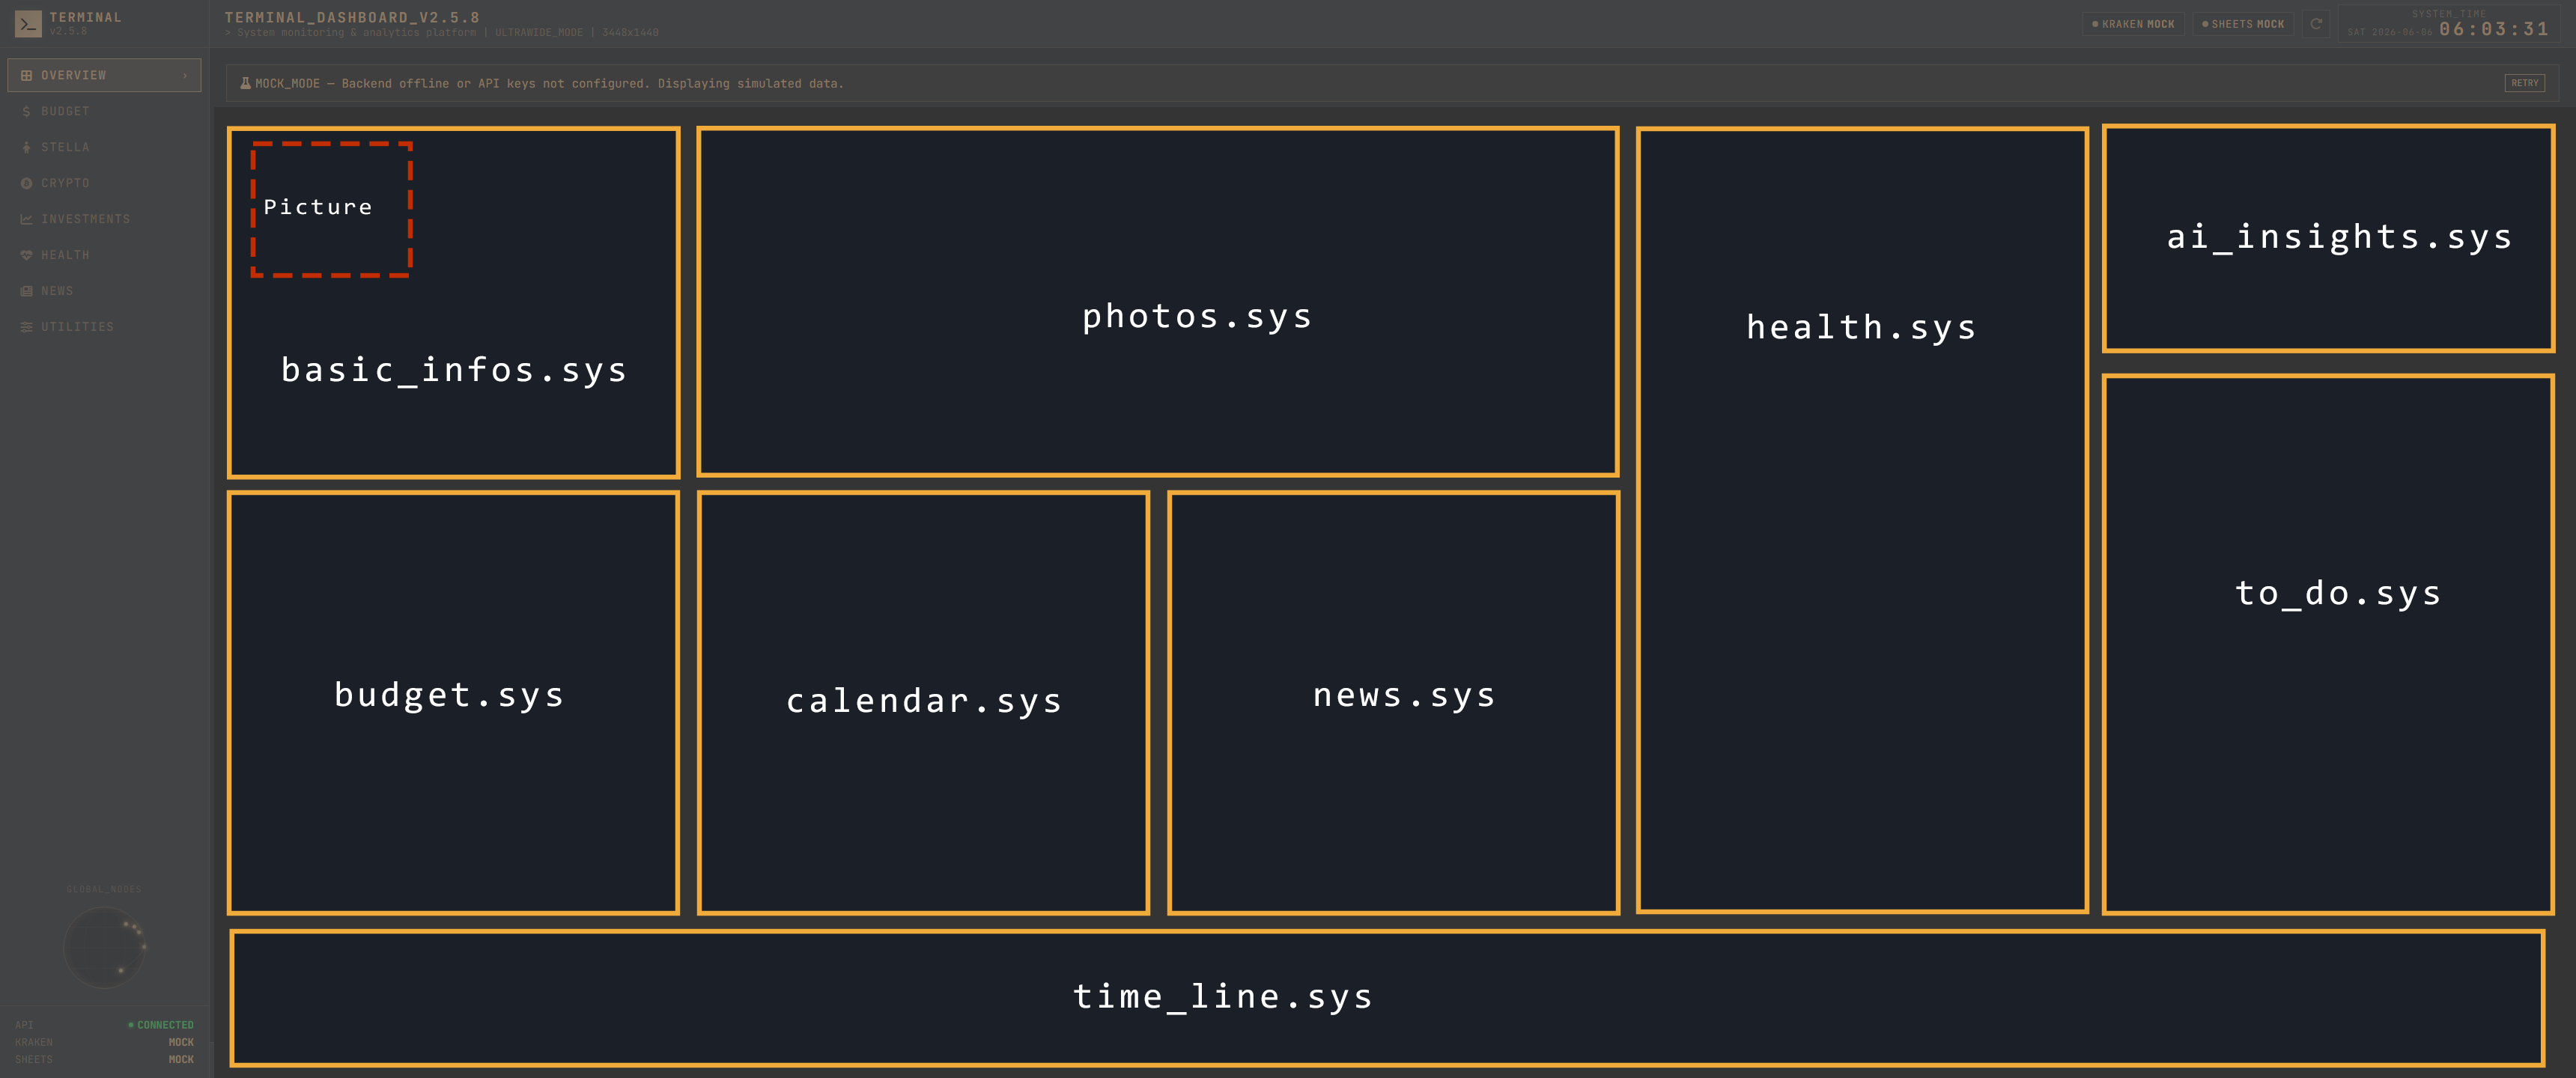
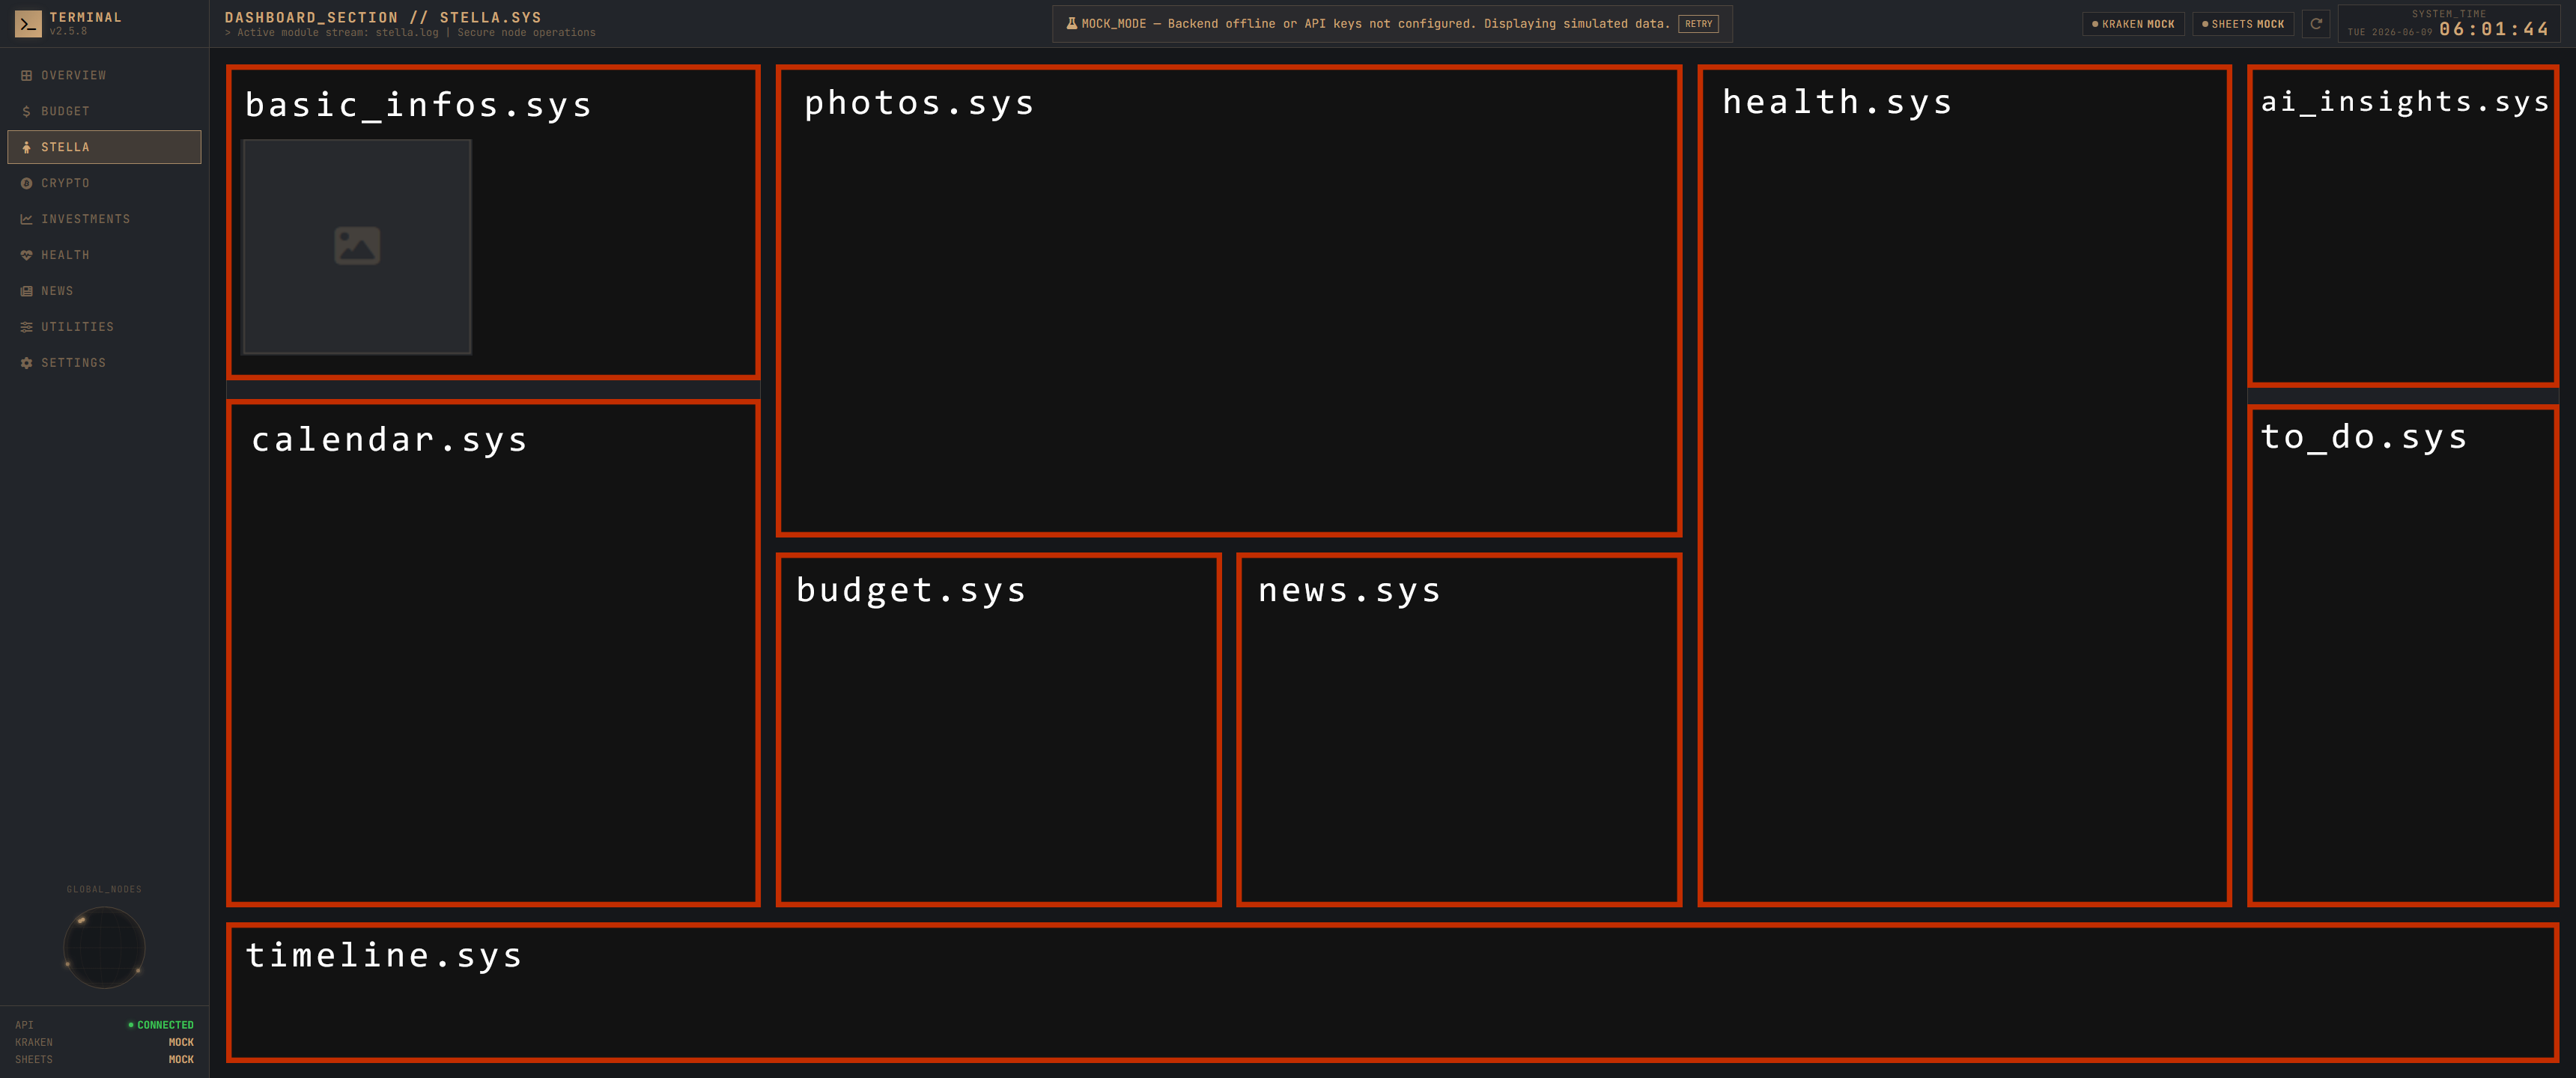
Add live Stella timeline with file persistence, milestone delete, photo hover thumbs, and layout skill improvements

diff --git a/frontend/app.js b/frontend/app.js
@@ -19,15 +19,8 @@ let securityScanRun = false;
 
 // ================= MOCKUP DATASETS (ACCORDING TO DESIGN SPECIFICATIONS) =================
 
-// Stella timeline milestones
-const mockStellaTimeline = [
-    { date: '2023-02-14', title: 'Born',        label: 'Feb 14 · 3.4 kg',          description: 'Stella arrived on Valentine\'s Day, weighing 3.4 kg.',  photo: null },
-    { date: '2024-04',    title: 'First steps', label: 'Apr · 13 months',           description: 'Took her first independent steps at 13 months.',         photo: null },
-    { date: '2024-09',    title: 'First words', label: 'Sep · "mama" / "dada"',     description: 'Started saying "mama" and "dada" clearly.',             photo: null },
-    { date: '2026-01',    title: 'Daycare',     label: 'Started Jan · loves it',    description: 'Started daycare in January 2026. Loves it.',             photo: null, isNow: true },
-    { date: '2027',       title: 'Swim lessons',label: 'Planned · summer term',     description: 'Planned summer swim lessons.',                           photo: null },
-    { date: '2029-09',    title: 'Kindergarten',label: 'Sep · starts school',       description: 'Starts kindergarten in September 2029.',                 photo: null, isGoal: true },
-];
+// Stella timeline milestones — loaded from Stella_data/timeline.json via API
+let stellaTimeline = [];
 
 // Category breakdowns for budget.sys
 const mockBudgetCategories = [
@@ -691,9 +684,32 @@ function initColorPicker() {
 
 // ================= VIEW: STELLA =================
 function renderStellaScreen() {
-    _renderStellaTimeline();
+    _loadStellaTimeline();
     _renderStellaCalendar();
     _initStellaTodos();
+}
+
+async function _loadStellaTimeline() {
+    try {
+        const res = await fetch('http://127.0.0.1:8000/api/stella/timeline');
+        const data = await res.json();
+        if (Array.isArray(data)) stellaTimeline = data;
+    } catch {
+        // backend unavailable — stellaTimeline stays as whatever was last loaded
+    }
+    _renderStellaTimeline();
+}
+
+async function _saveStellaTimeline() {
+    try {
+        await fetch('http://127.0.0.1:8000/api/stella/timeline', {
+            method: 'POST',
+            headers: { 'Content-Type': 'application/json' },
+            body: JSON.stringify({ milestones: stellaTimeline }),
+        });
+    } catch {
+        // silently fail — in-memory state is still correct
+    }
 }
 
 function _initStellaTodos() {
@@ -723,13 +739,15 @@ function _initStellaTodos() {
 function _renderStellaTimeline() {
     const track = document.getElementById('stella-timeline-track');
     if (!track) return;
-    track.innerHTML = mockStellaTimeline.map((m, i) => {
+    track.innerHTML = stellaTimeline.map((m, i) => {
         const year = m.date.slice(0, 4);
-        const isLast = i === mockStellaTimeline.length - 1;
+        const isLast = i === stellaTimeline.length - 1;
         const photo = m.photo ? `<img class="stella-tl-photo" src="${m.photo}" alt="${m.title}">` : '';
+        const thumbTip = m.photo ? `<img class="stella-tl-thumb-tip" src="${m.photo}" alt="">` : '';
         return `
-            <div class="ret-tl-col${m.isNow ? ' now' : ''}${m.isGoal ? ' goal' : ''}" style="cursor:pointer" onclick="openStellaViewMilestone(${i})">
+            <div class="ret-tl-col${m.isNow ? ' now' : ''}${m.isGoal ? ' goal' : ''}${m.photo ? ' has-thumb' : ''}" style="cursor:pointer" onclick="openStellaViewMilestone(${i})">
                 ${photo}
+                ${thumbTip}
                 <div class="ret-tl-content">
                     <div class="ret-tl-year">${m.isNow ? '<span class="ret-tl-now-badge">NOW</span>' : ''}${year}</div>
                     <div class="ret-tl-val">${m.title}</div>
@@ -753,12 +771,13 @@ function openStellaNewMilestone() {
     document.getElementById('stella-ms-date').value = '';
     document.getElementById('stella-ms-desc').value = '';
     _stellaPhotoClear();
+    document.getElementById('stella-ms-delete-btn').style.display = 'none';
     popup.dataset.mode = 'create';
     popup.classList.add('visible');
 }
 
 function openStellaViewMilestone(index) {
-    const m = mockStellaTimeline[index];
+    const m = stellaTimeline[index];
     if (!m) return;
     const popup = document.getElementById('stella-event-popup');
     document.getElementById('stella-popup-title-bar').innerHTML = `<i class="fa-solid fa-timeline"></i> ${m.title}`;
@@ -772,6 +791,7 @@ function openStellaViewMilestone(index) {
         preview.style.display = 'block';
         document.getElementById('stella-photo-drop').dataset.photo = m.photo;
     }
+    document.getElementById('stella-ms-delete-btn').style.display = '';
     popup.dataset.mode = 'view';
     popup.dataset.editIndex = index;
     popup.classList.add('visible');
@@ -806,12 +826,23 @@ function saveStellaNewMilestone() {
         label = parts[2] ? `${mName} ${parseInt(parts[2], 10)}` : mName;
     }
 
-    mockStellaTimeline.push({ date, title, label, description: desc, photo });
-    // Sort by date string (lexicographic, works for YYYY-MM-DD and YYYY-MM)
-    mockStellaTimeline.sort((a, b) => a.date.localeCompare(b.date));
+    document.getElementById('stella-event-popup').classList.remove('visible');
+
+    stellaTimeline.push({ date, title, label, description: desc, photo });
+    stellaTimeline.sort((a, b) => a.date.localeCompare(b.date));
 
     _renderStellaTimeline();
-    document.getElementById('stella-event-popup').classList.remove('visible');
+    _saveStellaTimeline();
+}
+
+function deleteStellaMilestone() {
+    const popup = document.getElementById('stella-event-popup');
+    const idx = parseInt(popup.dataset.editIndex, 10);
+    if (isNaN(idx) || idx < 0 || idx >= stellaTimeline.length) return;
+    popup.classList.remove('visible');
+    stellaTimeline.splice(idx, 1);
+    _renderStellaTimeline();
+    _saveStellaTimeline();
 }
 
 function stellaPhotoDragOver(e) {

diff --git a/frontend/style.css b/frontend/style.css
@@ -1802,7 +1802,7 @@ nav.sidebar-nav {
     gap: var(--grid-gap);
     grid-template-areas:
         "basicinfo photos   photos   health  aiinsights"
-        "budget    calendar news     health  todo"
+        "calendar  budget   news     health  todo"
         "timeline  timeline timeline timeline timeline";
     align-items: stretch;
 }
@@ -1817,6 +1817,34 @@ nav.sidebar-nav {
     flex: 1;
     min-height: 0;
     overflow-y: auto;
+}
+
+/* ── large top news panel ── */
+.stella-bignews-list {
+    display: flex;
+    flex-direction: column;
+    gap: 8px;
+    flex: 1;
+    min-height: 0;
+    overflow-y: auto;
+    padding: 6px 10px 10px;
+}
+.stella-bignews-featured {
+    border-bottom: 1px solid var(--border);
+    padding-bottom: 8px;
+}
+.stella-bignews-featured .news-headline {
+    font-size: 14px;
+    color: var(--slate);
+}
+.stella-bignews-grid {
+    display: grid;
+    grid-template-columns: 1fr 1fr;
+    gap: 8px;
+}
+.stella-bignews-grid .news-item {
+    border: none;
+    padding: 0;
 }
 
 #panel-stella-timeline .ret-tl-scroll {
@@ -1846,6 +1874,24 @@ nav.sidebar-nav {
     margin-bottom: 4px;
     align-self: center;
 }
+
+/* hover thumbnail tooltip */
+.stella-tl-thumb-tip {
+    display: none;
+    position: absolute;
+    bottom: calc(100% + 8px);
+    left: 50%;
+    transform: translateX(-50%);
+    width: 120px;
+    height: 90px;
+    object-fit: cover;
+    border: 1px solid var(--gold);
+    background: var(--panel);
+    z-index: 20;
+    pointer-events: none;
+}
+.ret-tl-col.has-thumb { position: relative; }
+.ret-tl-col.has-thumb:hover .stella-tl-thumb-tip { display: block; }
 
 /* ── Stella event popup overlay ── */
 .stella-popup-overlay {
@@ -1979,6 +2025,18 @@ nav.sidebar-nav {
     cursor: pointer;
 }
 .stella-popup-cancel:hover { border-color: var(--muted); color: var(--text); }
+
+.stella-popup-delete {
+    font-family: 'JetBrains Mono', monospace;
+    font-size: 11px;
+    letter-spacing: 0.06em;
+    padding: 6px 14px;
+    background: rgba(237, 71, 60, 0.10);
+    border: 1px solid rgba(237, 71, 60, 0.35);
+    color: var(--red);
+    cursor: pointer;
+}
+.stella-popup-delete:hover { background: rgba(237, 71, 60, 0.22); }
 
 .stella-photo-frame {
     aspect-ratio: 1;

diff --git a/frontend/index.html b/frontend/index.html
@@ -1852,6 +1852,7 @@
         </div>
         <div class="stella-popup-actions">
             <button class="stella-popup-save" onclick="saveStellaNewMilestone()"><i class="fa-solid fa-floppy-disk"></i> SAVE_MILESTONE</button>
+            <button class="stella-popup-delete" id="stella-ms-delete-btn" onclick="deleteStellaMilestone()" style="display:none"><i class="fa-solid fa-trash"></i> DELETE</button>
             <button class="stella-popup-cancel" onclick="closeStellaPopup()">CANCEL</button>
         </div>
     </div>

diff --git a/backend/routers/stella.py b/backend/routers/stella.py
@@ -1,0 +1,50 @@
+import json
+import logging
+from pathlib import Path
+from typing import Any
+
+from fastapi import APIRouter, HTTPException
+from pydantic import BaseModel
+
+router = APIRouter(prefix="/api/stella", tags=["stella"])
+logger = logging.getLogger("dashboard_backend")
+
+_DATA_DIR = Path(__file__).parent.parent.parent / "Stella_data"
+_TIMELINE_FILE = _DATA_DIR / "timeline.json"
+
+
+def _read_timeline() -> list[dict[str, Any]]:
+    try:
+        return json.loads(_TIMELINE_FILE.read_text(encoding="utf-8"))
+    except FileNotFoundError:
+        return []
+    except Exception as exc:
+        logger.error("Failed to read timeline.json: %s", exc)
+        raise HTTPException(status_code=500, detail="Could not read timeline data")
+
+
+def _write_timeline(milestones: list[dict[str, Any]]) -> None:
+    try:
+        _DATA_DIR.mkdir(parents=True, exist_ok=True)
+        _TIMELINE_FILE.write_text(
+            json.dumps(milestones, ensure_ascii=False, indent=2),
+            encoding="utf-8",
+        )
+    except Exception as exc:
+        logger.error("Failed to write timeline.json: %s", exc)
+        raise HTTPException(status_code=500, detail="Could not save timeline data")
+
+
+class TimelinePayload(BaseModel):
+    milestones: list[dict[str, Any]]
+
+
[email redacted]("/timeline")
+def get_timeline() -> list[dict[str, Any]]:
+    return _read_timeline()
+
+
[email redacted]("/timeline")
+def save_timeline(payload: TimelinePayload) -> dict[str, str]:
+    _write_timeline(payload.milestones)
+    return {"status": "ok"}

diff --git a/backend/main.py b/backend/main.py
@@ -15,6 +15,7 @@ from backend.routers.crypto import router as crypto_router
 from backend.routers.mail import router as mail_router
 from backend.routers.retirement import router as retirement_router
 from backend.routers.security import router as security_router
+from backend.routers.stella import router as stella_router
 
 # Set up logging
 logging.basicConfig(level=logging.INFO, format="%(asctime)s - %(levelname)s - %(message)s")
@@ -42,6 +43,7 @@ app.include_router(retirement_router)
 app.include_router(mail_router)
 app.include_router(crypto_router)
 app.include_router(security_router)
+app.include_router(stella_router)
 
 
 # Helper function to check if Kraken is configured

diff --git a/.claude/skills/layout/SKILL.md b/.claude/skills/layout/SKILL.md
@@ -35,6 +35,8 @@ Then stop.
 
 ## Step 2 — Show selection menu
 
+**Always present this menu every time the skill runs — even if a layout was just applied moments ago.** The user iterates on the same mockup repeatedly with small changes each time; never skip or infer the selection.
+
 Use the `AskUserQuestion` tool to present a single-select question. Build the options list dynamically from the filenames found in Step 1:
 
 - **question**: `"Which mockup would you like to apply?"`
@@ -85,6 +87,19 @@ Study the mockup carefully:
 - **Proportions** — column ratios (e.g. 2:1:1), row heights, which panels span multiple columns
 - **Any new elements** not currently present in the HTML
 
+### Annotation conventions
+
+Mockups may use the following visual markup to communicate intent — treat these as **strict, authoritative layout instructions**:
+
+- **Red outline boxes** — define the exact position AND size of each panel. The box boundary is the ground truth for both width and height. You MUST translate box proportions into `grid-template-rows` and `grid-template-columns` fractions accurately:
+  - Measure the pixel height of each row of boxes relative to the total content height. Convert to `fr` units that match those ratios (e.g. if row 1 is twice as tall as row 2, use `2fr 1fr`).
+  - Measure the pixel width of each column relative to total width and express as `fr` units.
+  - A box that spans two rows means that grid area uses `grid-row: span 2` — implement it that way.
+  - Do not default to equal rows/columns (`1fr 1fr`) unless the boxes are visually equal in the mockup. Always derive the actual ratios from the image.
+- **White text labels** — identify the panel by name (usually matches a `*.sys` identifier). Use this name to map the box to the correct existing panel or to name a new one.
+
+After reading the image, explicitly state the row height ratios and column width ratios you measured before writing any CSS.
+
 ---
 
 ## Step 6 — Diff mockup against current layout
@@ -97,15 +112,17 @@ Compare what you see in the image against the current `#view-{tabname}` HTML and
 - Panels that have been removed
 - Content within panels that has changed (new charts, different data, etc.)
 
-State your findings in one compact block before touching any code:
+State your findings in one compact block before touching any code. Always include the measured row/column ratios:
 
 ```
 LAYOUT DIFF — Crypto
 ────────────────────────────────────────
-  MOVED   : fear_greed.sys — was bottom-left, now top-right
-  RESIZED : trading_view.sys — now spans 2 cols
-  NEW     : alerts.sys panel (bottom strip, full width)
-  REMOVED : (none)
+  COLUMNS  : 1fr 2fr 1fr 1fr  (measured from box widths)
+  ROWS     : 1.8fr 1fr        (row 1 ~64% of height, row 2 ~36%)
+  MOVED    : fear_greed.sys — was bottom-left, now top-right
+  RESIZED  : trading_view.sys — now spans 2 cols
+  NEW      : alerts.sys panel (bottom strip, full width)
+  REMOVED  : (none)
 ────────────────────────────────────────
 Applying changes...
 ```